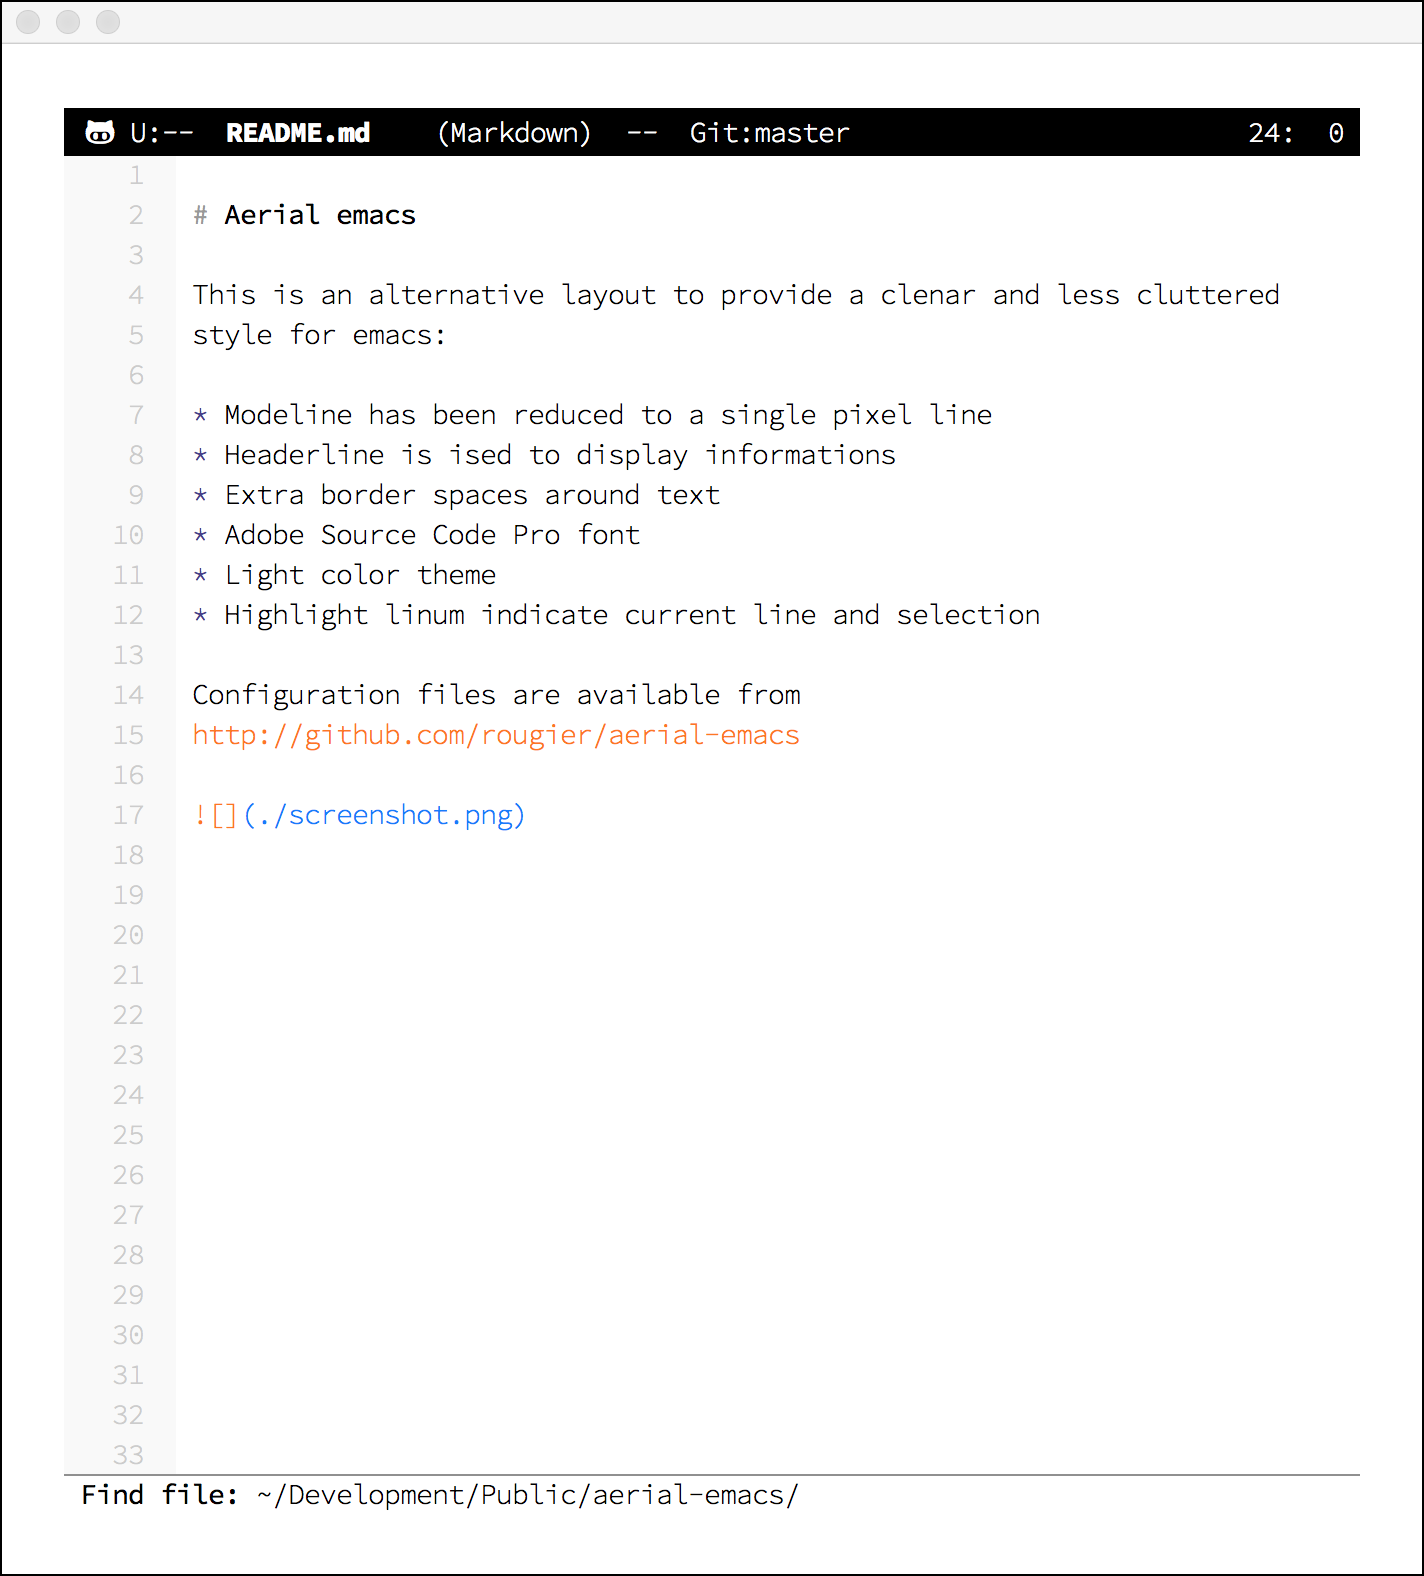
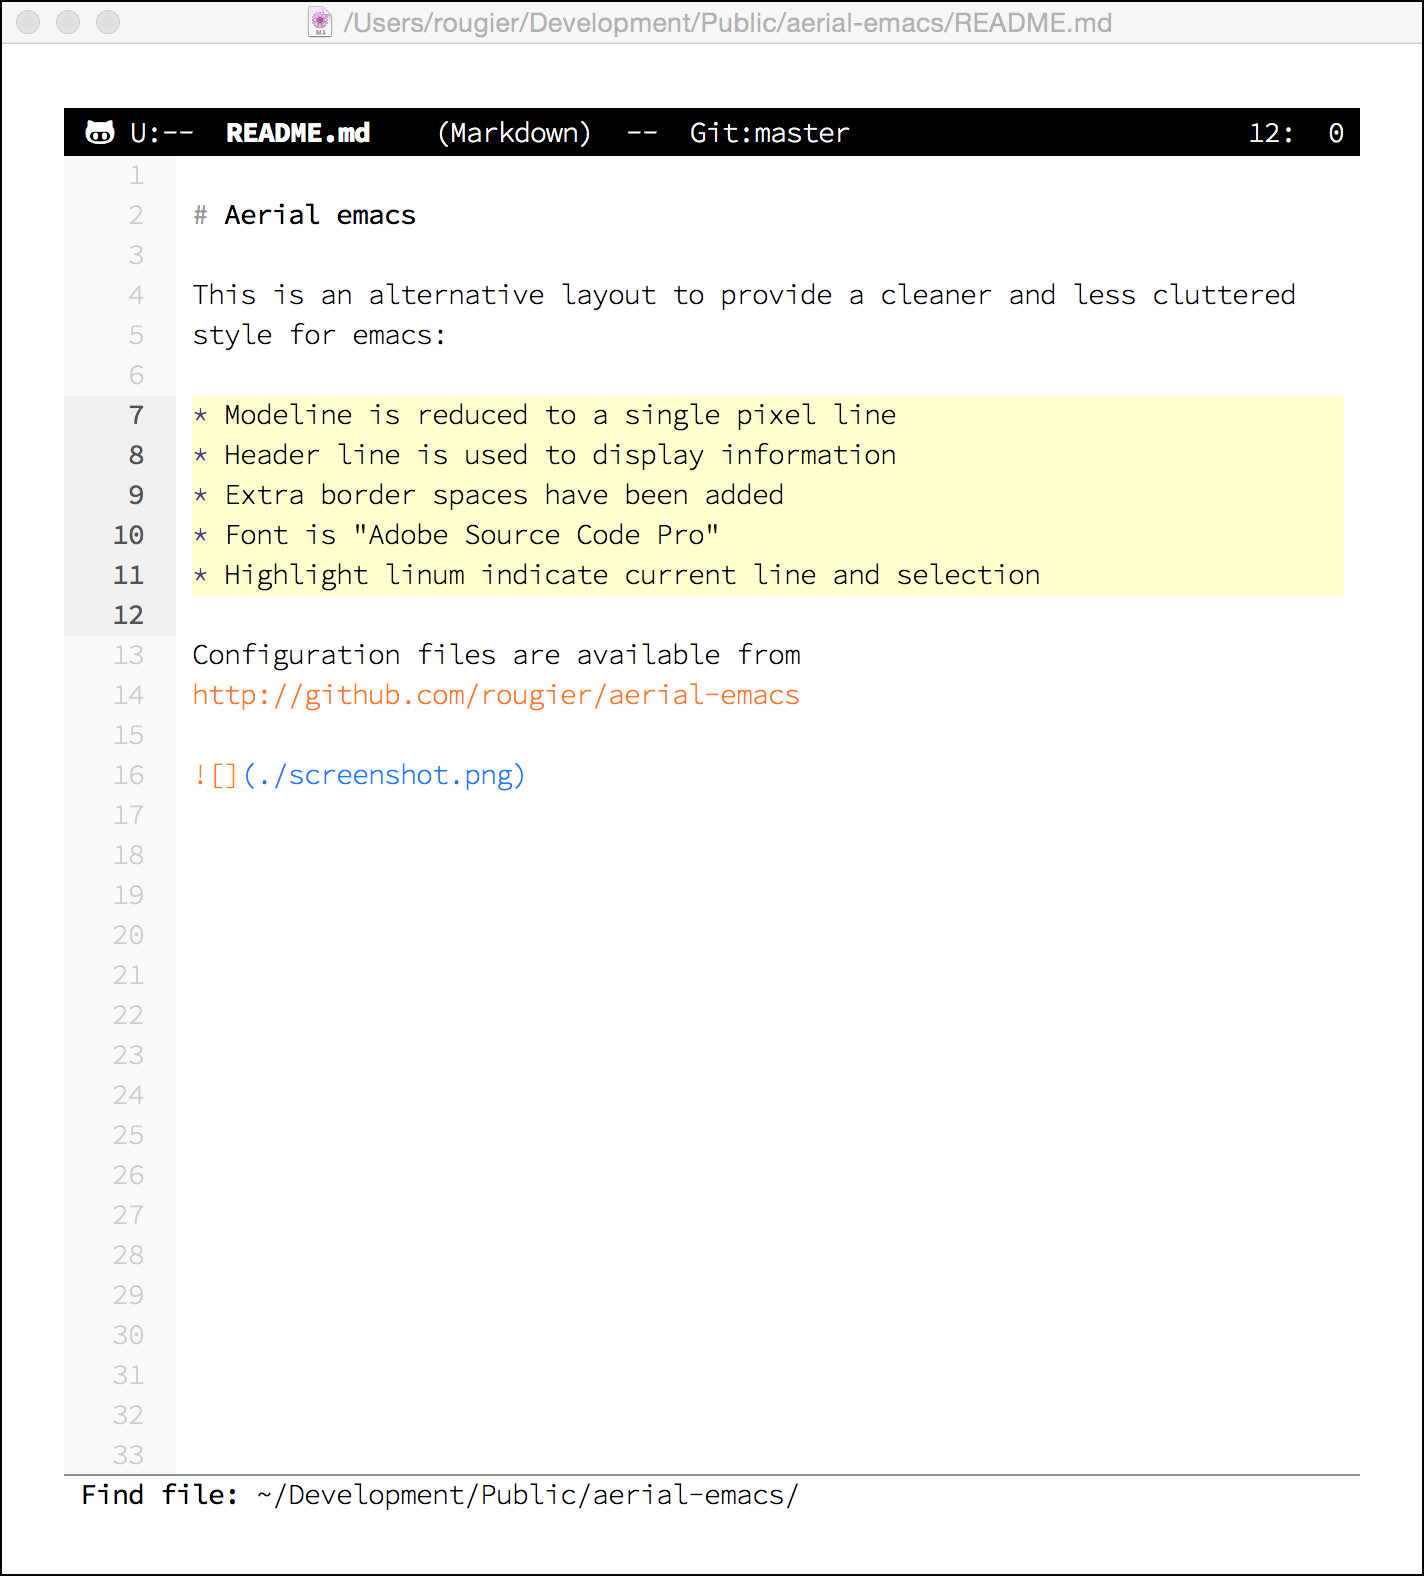
Changed screenshot

diff --git a/README.md b/README.md
@@ -1,14 +1,13 @@
 
 # Aerial emacs
 
-This is an alternative layout to provide a clenar and less cluttered
+This is an alternative layout to provide a cleaner and less cluttered
 style for emacs:
 
-* Modeline has been reduced to a single pixel line
-* Headerline is ised to display informations
-* Extra border spaces around text
-* Adobe Source Code Pro font
-* Light color theme
+* Modeline is reduced to a single pixel line
+* Header line is used to display information
+* Extra border spaces have been added
+* Font is "Adobe Source Code Pro"
 * Highlight linum indicate current line and selection
 
 Configuration files are available from
